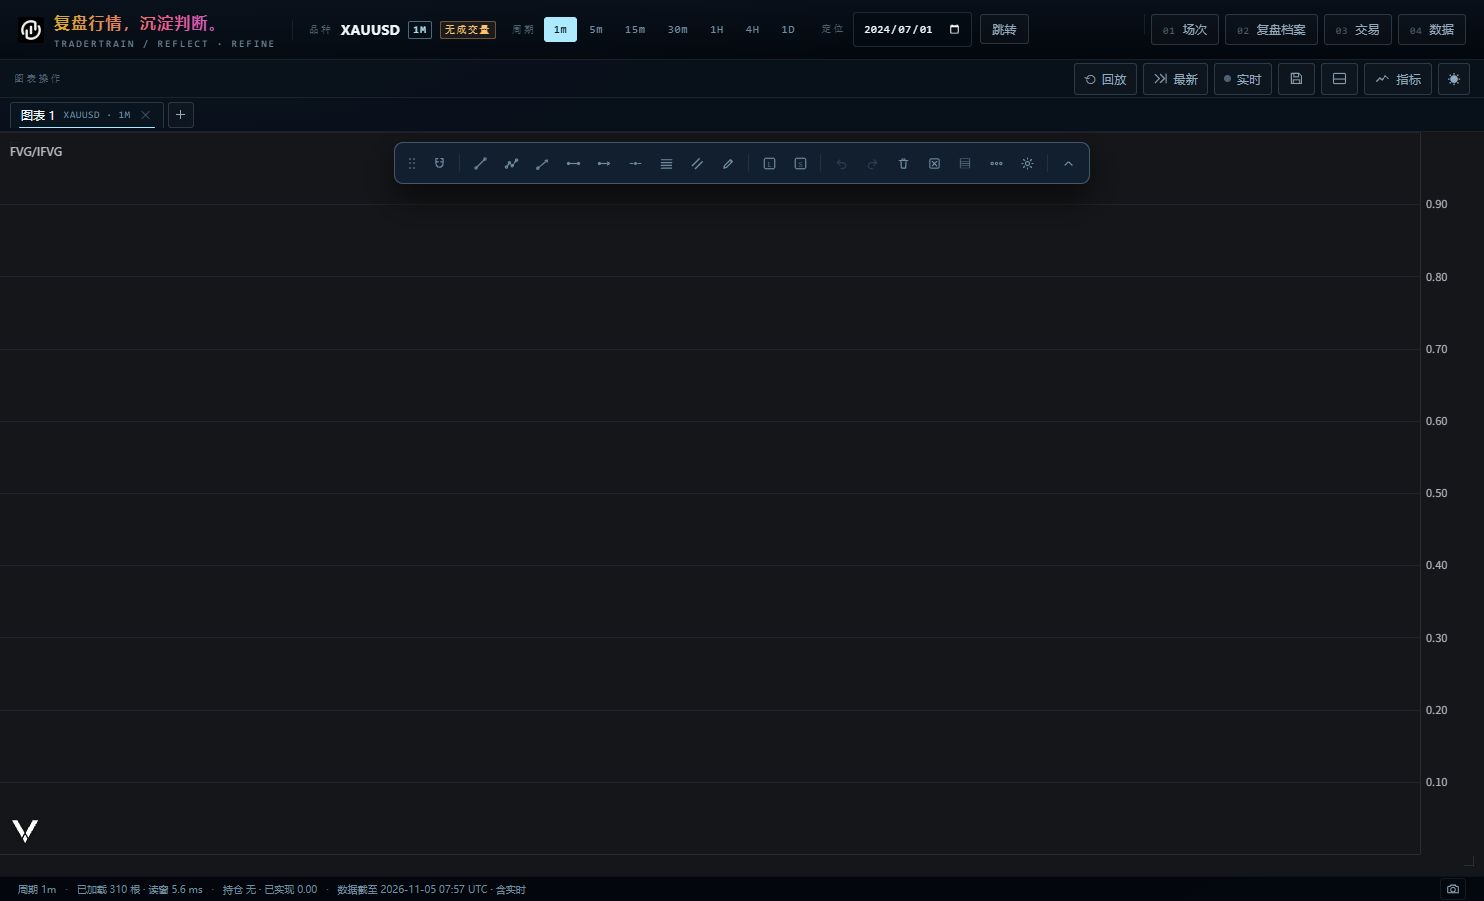
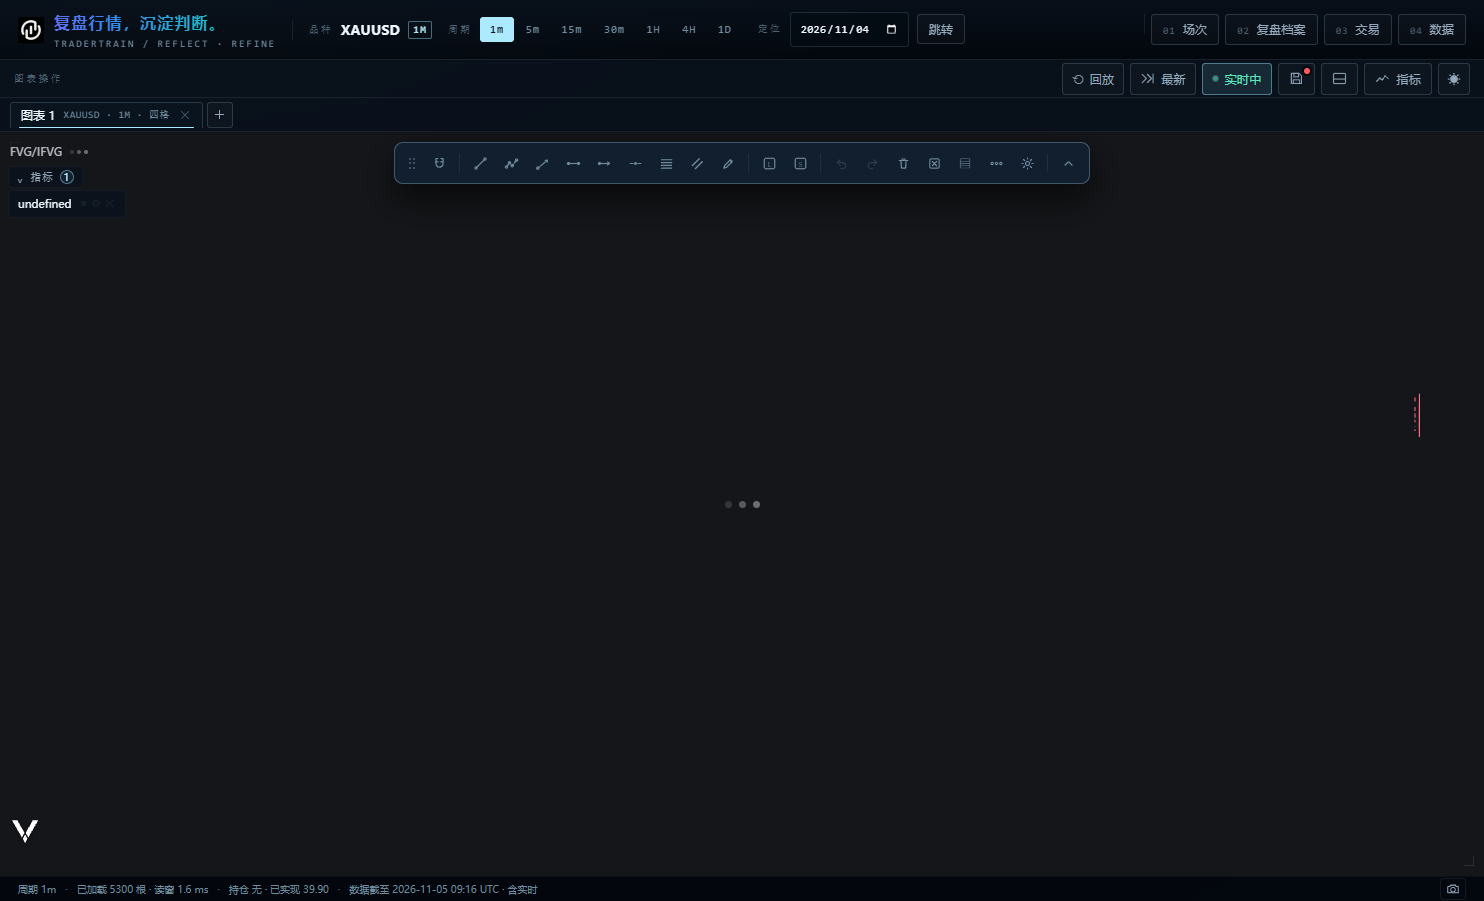
feat(vela): R14 打通 —— SMC 自绘层完整上屏（host 计算 + window 载荷表 + 闭包绘制）
五环修复链（全部实测踩坑）：
1. 渲染器包装层实例，this 无自定义方法 → 绘制改为 create() 内闭包函数
2. native _run 跑在 worker 作用域（window 写入不可见）→ 计算移到 host 侧
   updateSmcLayers（主作用域 calc → window.__TT_LAYER_DATA 全局表 → 层每帧读）
3. coords.priceToY 读未接线 scale 炸 → args.scale/bounds 手工线性映射（log/invert 兼容）
4. 历史深化时 index 过滤瞬时为空会擦掉好载荷 → 空结果不删除
5. 静态图无自发数据帧 → 载荷更新后 chart.resize() 触发一帧
实测：FVG 层画布 1392 绘制像素（docs/vela-tier1-smc.png）；指标面板 UI 全链路
（分类→添加→图例→层渲染）；wireSmcLayerTriggers 接 load:end/bar/market:changed/replay
+ 面板 kick。新增 R16（setVisibleRange/切周期后 pane 偶发破损待查）

diff --git a/app/src/vela-ind.js b/app/src/vela-ind.js
@@ -90,7 +90,8 @@ export function registerNativeVelaIndicators() {
   return n;
 }
 
-/* ---------------- SMC×4 + FLOW_VOL：payload → boxes/lines/labels ---------------- */
+/* ---------------- SMC×4 + FLOW_VOL：payload → 自绘层 items ---------------- */
+function queueHostUpdate() { /* worker 作用域无 host；由 wireSmcLayerTriggers 的图表事件驱动 */ }
 // SMC 的 calc 返回 rows（含 __smc 载荷：zones/events/swings/eq/fvgs），旧方案由 smcRender
 // 用 overlay 池画 rect/hline/tag；Vela 下直接 emit 数据空间原语（xloc=bar_time），坐标零换算。
 const LAYER_DATA = window.__TT_LAYER_DATA_REF = (window.__TT_LAYER_DATA_REF || new Map());   // 全局共享：防双模块实例
@@ -181,77 +182,93 @@ export function registerSmcLayers() {
         create() {
           const TYPE = type;                    // 闭包：本层的 native type
           let cv = null;
+          // 绘制必须是闭包函数：渲染器会包装实例（mount/render），this 上没有自定义方法（实测）
+          const paint = (args, cvs) => {
+            const cv2 = cvs || (window.__LAYER_CV || {})[TYPE];
+            if (!cv2) return;
+            const ctx2 = cv2.getContext('2d');
+            ctx2.setTransform(cv2.clientWidth ? cv2.width / cv2.clientWidth : 1, 0, 0, cv2.clientWidth ? cv2.width / cv2.clientWidth : 1, 0, 0);
+            ctx2.clearRect(0, 0, cv2.width, cv2.height);
+            // [R14] 载荷走 window 全局表（0.9.3 的 pushData→scene.nativeData 通了，但层 args.data 装配拿不到）
+            const d = (window.__TT_LAYER_DATA || {})[TYPE];
+            if (!d?.items?.length) return;
+            const co = args.coords;
+            try {
+              const s0 = d.items[0];
+              window.__PAINT_TRACE = window.__PAINT_TRACE || [];
+              if (window.__PAINT_TRACE.length < 3) window.__PAINT_TRACE.push({
+                n: d.items.length, x1: co.timeToX(s0.x1), y1: (() => { try { return Y(s0.y1); } catch (e) { return 'Y-ERR ' + e.message; } })(),
+                cvW: cv2.width, cw: cv2.clientWidth, transform: ctx2.getTransform().a
+              });
+            } catch (e) { window.__PAINT_TRACE = window.__PAINT_TRACE || []; window.__PAINT_TRACE.push('trace-err ' + e.message); }
+            const sc = args.scale, bd = args.bounds;
+            const X = (t) => co.timeToX(t);
+            // coords.priceToY 内部读未接线的 scale（.log undefined）会炸——用 scale(min/max)+bounds 手工映射
+            const Y = (v) => {
+              if (!sc || !bd) return NaN;
+              const min = sc.min, max = sc.max;
+              if (!Number.isFinite(min) || !Number.isFinite(max) || max === min) return NaN;
+              let f;
+              if (sc.log) {
+                const lv = Math.log(Math.max(v, 1e-9));
+                const lmin = Math.log(Math.max(min, 1e-9)), lmax = Math.log(Math.max(max, 1e-9));
+                f = (lv - lmin) / ((lmax - lmin) || 1);
+              } else {
+                f = (v - min) / (max - min);
+              }
+              if (sc.invert) f = 1 - f;
+              return bd.top + (1 - f) * bd.height;
+            };
+            ctx2.font = '10px ui-monospace, Menlo, Consolas, monospace';
+            for (const it of d.items) {
+              if (it.t === 'box') {
+                const x1 = X(it.x1), x2 = X(it.x2), y1 = Y(it.y1), y2 = Y(it.y2);
+                if (!Number.isFinite(x1) || !Number.isFinite(y1) || !Number.isFinite(x2) || !Number.isFinite(y2)) continue;
+                ctx2.fillStyle = it.bg;
+                ctx2.fillRect(x1, y1, x2 - x1, y2 - y1);
+                ctx2.strokeStyle = it.border;
+                ctx2.setLineDash([4, 3]);
+                ctx2.lineWidth = 1;
+                ctx2.strokeRect(x1, y1, x2 - x1, y2 - y1);
+                ctx2.setLineDash([]);
+              } else if (it.t === 'line') {
+                const x1 = X(it.x1), y1 = Y(it.y1), x2 = X(it.x2), y2 = Y(it.y2);
+                if (!Number.isFinite(x1) || !Number.isFinite(y1) || !Number.isFinite(x2) || !Number.isFinite(y2)) continue;
+                ctx2.strokeStyle = it.color;
+                ctx2.lineWidth = it.w;
+                ctx2.setLineDash(it.dash);
+                ctx2.beginPath(); ctx2.moveTo(x1, y1); ctx2.lineTo(x2, y2); ctx2.stroke();
+                ctx2.setLineDash([]);
+              } else if (it.t === 'tag') {
+                const x = X(it.x), y = Y(it.y);
+                if (!Number.isFinite(x) || !Number.isFinite(y)) continue;
+                const w = ctx2.measureText(it.text).width + 8;
+                ctx2.fillStyle = it.color;
+                ctx2.fillRect(x + 4, y - 8, w, 14);
+                ctx2.fillStyle = '#0b1a26';
+                ctx2.fillText(it.text, x + 8, y + 3);
+              }
+            }
+          };
           return {
-            mount(canvas) { cv = canvas; },
+            mount(canvas) {
+              cv = canvas;
+              (window.__LAYER_CV = window.__LAYER_CV || {})[TYPE] = canvas;   // 跨层实例共享（create 会被调多次）
+            },
             render(args) {
+              window.__M = window.__M || {};
+              window.__M.render = (window.__M.render || 0) + 1;
+              window.__M.closureCv = !!cv;
+              window.__M.winCv = !!(window.__LAYER_CV || {})[TYPE];
               try {
-                this._paint(args, cv);
+                window.__LAYER_FRAMES = window.__LAYER_FRAMES || {};
+                window.__LAYER_FRAMES[TYPE] = (window.__LAYER_FRAMES[TYPE] || 0) + 1;
+                paint(args, cv || (window.__LAYER_CV || {})[TYPE]);
+                window.__M.paintDone = (window.__M.paintDone || 0) + 1;
               } catch (e) {
                 // 早期帧 scale/coords 未就绪会炸——吞掉等下一帧，避免整层被拆
                 if (!this._warned) { this._warned = true; console.warn('[vela-smc:layer]', e?.message); }
               }
-            },
-            _paint(args, cv) {
-              if (!cv) return;
-              const ctx2 = cv.getContext('2d');
-              ctx2.clearRect(0, 0, cv.width, cv.height);
-              // [R14] 0.9.3 的 pushData→setNativeData 管线通到 scene.nativeData，但 layer 的
-              // args.data 装配拿不到（channel 匹配疑点）——改走 host 注册表 LAYER_DATA
-              const d = (window.__TT_LAYER_DATA || {})[TYPE] || (LAYER_DATA.get(TYPE) || args.data);
-              if (!d?.items?.length) return;
-              const co = args.coords;
-              const dpr = cv.clientWidth ? cv.width / cv.clientWidth : 1;
-              ctx2.setTransform(dpr, 0, 0, dpr, 0, 0);
-              const X = (t) => co.timeToX(t);
-              // [R14] coords.priceToY 内部读未接线的 scale（.log undefined）会炸 ——
-              // 用 args.scale(min/max) + args.bounds(top/height) 手工线性映射（log/invert 兼容）
-              const sc = args.scale, bd = args.bounds;
-              const Y = (v) => {
-                if (!sc || !bd) return NaN;
-                const min = sc.min, max = sc.max;
-                if (!Number.isFinite(min) || !Number.isFinite(max) || max === min) return NaN;
-                let f;
-                if (sc.log) {
-                  const lv = Math.log(Math.max(v, 1e-9));
-                  const lmin = Math.log(Math.max(min, 1e-9)), lmax = Math.log(Math.max(max, 1e-9));
-                  f = (lv - lmin) / ((lmax - lmin) || 1);
-                } else {
-                  f = (v - min) / (max - min);
-                }
-                if (sc.invert) f = 1 - f;
-                return bd.top + (1 - f) * bd.height;
-              };
-              ctx2.font = '10px ui-monospace, Menlo, Consolas, monospace';
-              for (const it of d.items) {
-                if (it.t === 'box') {
-                  const x1 = X(it.x1), x2 = X(it.x2), y1 = Y(it.y1), y2 = Y(it.y2);
-                  if (!Number.isFinite(x1) || !Number.isFinite(y1)) continue;
-                  ctx2.fillStyle = it.bg;
-                  ctx2.fillRect(x1, y1, x2 - x1, y2 - y1);
-                  ctx2.strokeStyle = it.border;
-                  ctx2.setLineDash([4, 3]);
-                  ctx2.lineWidth = 1;
-                  ctx2.strokeRect(x1, y1, x2 - x1, y2 - y1);
-                  ctx2.setLineDash([]);
-                } else if (it.t === 'line') {
-                  const x1 = X(it.x1), y1 = Y(it.y1), x2 = X(it.x2), y2 = Y(it.y2);
-                  if (!Number.isFinite(x1) || !Number.isFinite(y1) || !Number.isFinite(x2) || !Number.isFinite(y2)) continue;
-                  ctx2.strokeStyle = it.color;
-                  ctx2.lineWidth = it.w;
-                  ctx2.setLineDash(it.dash);
-                  ctx2.beginPath(); ctx2.moveTo(x1, y1); ctx2.lineTo(x2, y2); ctx2.stroke();
-                  ctx2.setLineDash([]);
-                } else if (it.t === 'tag') {
-                  const x = X(it.x), y = Y(it.y);
-                  if (!Number.isFinite(x) || !Number.isFinite(y)) continue;
-                  const w = ctx2.measureText(it.text).width + 8;
-                  ctx2.fillStyle = it.color;
-                  ctx2.fillRect(x + 4, y - 8, w, 14);
-                  ctx2.fillStyle = '#0b1a26';
-                  ctx2.fillText(it.text, x + 8, y + 3);
-                }
-              }
-              ctx2.setTransform(1, 0, 0, 1, 0, 0);
             }
           };
         }
@@ -260,6 +277,52 @@ export function registerSmcLayers() {
     } catch (e) { console.warn('[vela-smc:layer]', type, e?.message); }
   }
   return n;
+}
+
+/* ---------------- host 侧 SMC 计算（喂给自绘层） ---------------- */
+const HOST_THROTTLE = new Map();
+
+/** 主作用域跑 SMC calc → window.__TT_LAYER_DATA（自绘层每帧读它）。
+ *  由图表事件（load:end / bar / market:changed）触发，200ms 节流。 */
+export function updateSmcLayers(app) {
+  if (!app?.chart || typeof window === 'undefined') return;
+  if (!app.chart.indicators) return;
+  let present;
+  try { present = new Set((app.chart.indicators() || []).map(h => h.nativeType).filter(Boolean)); } catch { return; }
+  (window.__TT_LAYER_DATA = window.__TT_LAYER_DATA || {});
+  let wrote = false;
+  for (const tpl of SMC_INDS) {
+    if (tpl.name === 'SMC_DASH') continue;          // DOM 面板：不进层
+    const type = 'TT_' + tpl.name;
+    if (!present.has(type)) continue;               // 未上图：跳过（保留最后载荷，层不画由 add/remove 控制）
+    const key = type + ':' + app.periodKey;
+    const now = performance.now();
+    if (now - (HOST_THROTTLE.get(key) || 0) < 200) continue;
+    HOST_THROTTLE.set(key, now);
+    const bars = app.bars.allBars().map(b => ({ timestamp: b.timestamp, open: b.open, high: b.high, low: b.low, close: b.close, volume: b.volume || 0 }));
+    const params = (tpl.calcParams || []).map(d => d);
+    try {
+      const rows = tpl.calc(bars, { params, calcParams: params }) || [];
+      const payload = rows.__smc || null;
+      const items = payload ? smcPayloadToItems(tpl.name, payload, bars.map(b => ({ time: b.timestamp }))) : [];
+      if (items.length) { window.__TT_LAYER_DATA[type] = { items }; wrote = true; }
+    } catch (e) { console.warn('[vela-smc:host]', tpl.name, e?.message); }
+  }
+  // 载荷更新后主动触发一帧（静态图无数据帧，层不会自发重绘）
+  if (wrote) { try { app.chart.resize?.(); } catch {} }
+}
+
+/** 图表事件接线（app.mount 后调一次） */
+export function wireSmcLayerTriggers(app) {
+  const c = app.chart;
+  if (!c?.on) return;
+  let timer = null;
+  const kick = () => { clearTimeout(timer); timer = setTimeout(() => updateSmcLayers(app), 200); };
+  for (const ev of ['load:end', 'bar', 'market:changed', 'replay:step', 'replay:tick']) {
+    try { c.on(ev, kick); } catch {}
+  }
+  app._smcKick = kick;
+  window.__TT_SMC_KICK = kick;   // 面板添加/移除后手动触发
 }
 
 /** SMC_FVG/ICT/HTF/MST（DASH 面板与 FLOW_VP/WALL/DEPTH 走像素/DOM 层，后续批次） */
@@ -275,6 +338,7 @@ export function registerSmcVelaIndicators() {
       registerNativeIndicator({
         type: 'TT_' + tpl.name,
         title: tpl.shortName || tpl.name,
+        shortTitle: tpl.shortName || tpl.name,
         paneHint: tpl.series === 'price' ? 'price' : 'new',
         overlay: tpl.series === 'price',
         multiInstance: false,
@@ -299,28 +363,16 @@ export function registerSmcVelaIndicators() {
               let rows = [];
               try { rows = tpl.calc(biz, { params, calcParams: params }) || []; } catch (e) { console.warn('[vela-smc]', tpl.name, e?.message); }
               if (isSmc) {
-                // [R14 Tier-1] 非 series 原语不上屏（Vela 0.9.3 缺陷）→ pushData 给同 id 自绘层
-                try {
-                const payload = rows.__smc || null;
-                const items = payload ? smcPayloadToItems(tpl.name, payload, biz) : [];
-                // 空结果不删除：历史深化/重算时 bar 数变化会让 index 过滤瞬时为空，
-                // 保留最后有效载荷。载荷走 window 全局表（跨模块副本/帧稳）；
-                // pushData 保留——0.9.3 上管线通到 scene.nativeData 但层 args.data 装配不到（R14）
-                (window.__TT_LAYER_DATA = window.__TT_LAYER_DATA || {})['TT_' + tpl.name] = { items };
-                if (items.length) LAYER_DATA.set('TT_' + tpl.name, { items });
-                // 占位 series：透明色 + 首尾两点真实价（撑起 pane 标尺）——没有值 priceToY 会读 undefined 炸
-                const a1 = items[0] || { y1: biz[0]?.close ?? 0 };
-                const a2 = items[items.length - 1] || a1;
+                // [R14 Tier-1 最终方案] native 实例跑在 worker 作用域（window 写入主页面不可见），
+                // 计算+载荷由 host 侧 updateSmcLayers() 承担（见下）；这里只发透明锚 series
+                // 撑起 pane 标尺 + 提供图例行。
+                const c = biz[biz.length - 1]?.close ?? 0;
                 ctx.emit({ series: [{ id: `tt-${tpl.name.toLowerCase()}-anchor`, title: tpl.shortName || tpl.name,
                   kind: 'line',
-                  points: [
-                    { time: biz[0]?.time ?? 0, value: a1.y1 ?? null },
-                    { time: biz[biz.length - 1]?.time ?? 0, value: a2.y1 ?? null }
-                  ],
+                  points: [{ time: biz[0]?.time ?? 0, value: c }, { time: biz[biz.length - 1]?.time ?? 0, value: c }],
                   style: { color: 'rgba(0,0,0,0)', width: 1, lineStyle: 'solid' } }] });
-                if (items.length) ctx.pushData({ items });
+                queueHostUpdate();
                 return;
-                } catch (e) { window.__RUNLOG = (window.__RUNLOG || []).concat(`${tpl.name}: ERR ${String(e && e.message).slice(0, 80)}`); return; }
               }
               {
                 // FLOW_VOL：vu/vd 直方图

diff --git a/app/src/main.js b/app/src/main.js
@@ -3959,6 +3959,8 @@ async function loadProfile(profile) {
   // 图表/回放对象就绪后再落实回放开关状态（这时 seek 才有意义）
   try { await applyReplayMode(replayPref === true, { silent: true }); } catch (e) { logErr('replay:恢复', e); }
 
+  try { window.__A_wireSmc?.(state.app); } catch (e) { logErr('smc:wire', e); }   // [R14] SMC 层触发接线
+  try { const m = await import('./vela-ind.js'); m.updateSmcLayers?.(state.app); } catch {}
   window.__BOOT_STAGE__ = 'ready';
   state._appReady?.(true);
 }
@@ -4255,10 +4257,12 @@ async function boot() {
   state.drawTemplates = await loadTemplateStore();
   state.app?.setMagnet?.(isMagnetOn());   // [vela P3] 磁吸 → 原生吸附
   try {
-    const { registerNativeVelaIndicators, registerSmcVelaIndicators, registerSmcLayers } = await import('./vela-ind.js');
+    window.__A_wireSmc = null;
+    const { registerNativeVelaIndicators, registerSmcVelaIndicators, registerSmcLayers, wireSmcLayerTriggers } = await import('./vela-ind.js');
     registerNativeVelaIndicators();
     registerSmcVelaIndicators();
     registerSmcLayers();   // [R14 Tier-1] SMC 自绘层（id=native type，pushData 路由）
+    window.__A_wireSmc = wireSmcLayerTriggers;
   } catch (e) { logErr('vela-ind:注册', e); }   // [vela P4] 纯 calc + SMC/flow 指标 → native
   if (window.klinecharts) {          // [vela P1] 本分支图表内核是 Vela：klinecharts overlay/指标注册全部跳过（P3/P4 接回）
     registerFibOverlay(window.klinecharts);

diff --git a/app/src/indicators.js b/app/src/indicators.js
@@ -193,13 +193,18 @@ export function toggleBuiltin(chart, name, overlay, prefs = null) {
     if (has) {
       const h = (chart.indicators?.() || []).find(i => i.nativeType === type || i.id === type);
       try { h?.remove?.(); } catch {}
+      try { window.__TT_SMC_KICK?.(); } catch {}
       return false;
     }
     const inputs = {};
     if (prefs && Array.isArray(prefs.calcParams) && prefs.calcParams.length) {
       prefs.calcParams.forEach((v, i) => { inputs['p' + i] = v; });
     }
-    try { chart.addNativeIndicator(type, Object.keys(inputs).length ? { inputs } : undefined); return true; }
+    try {
+      chart.addNativeIndicator(type, Object.keys(inputs).length ? { inputs } : undefined);
+      try { window.__TT_SMC_KICK?.(); } catch {}
+      return true;
+    }
     catch (e) { console.warn('[vela-ind:add]', name, e?.message); return false; }
   }
   const has = (chart.getIndicators?.() || []).some(i => i.name === name);
